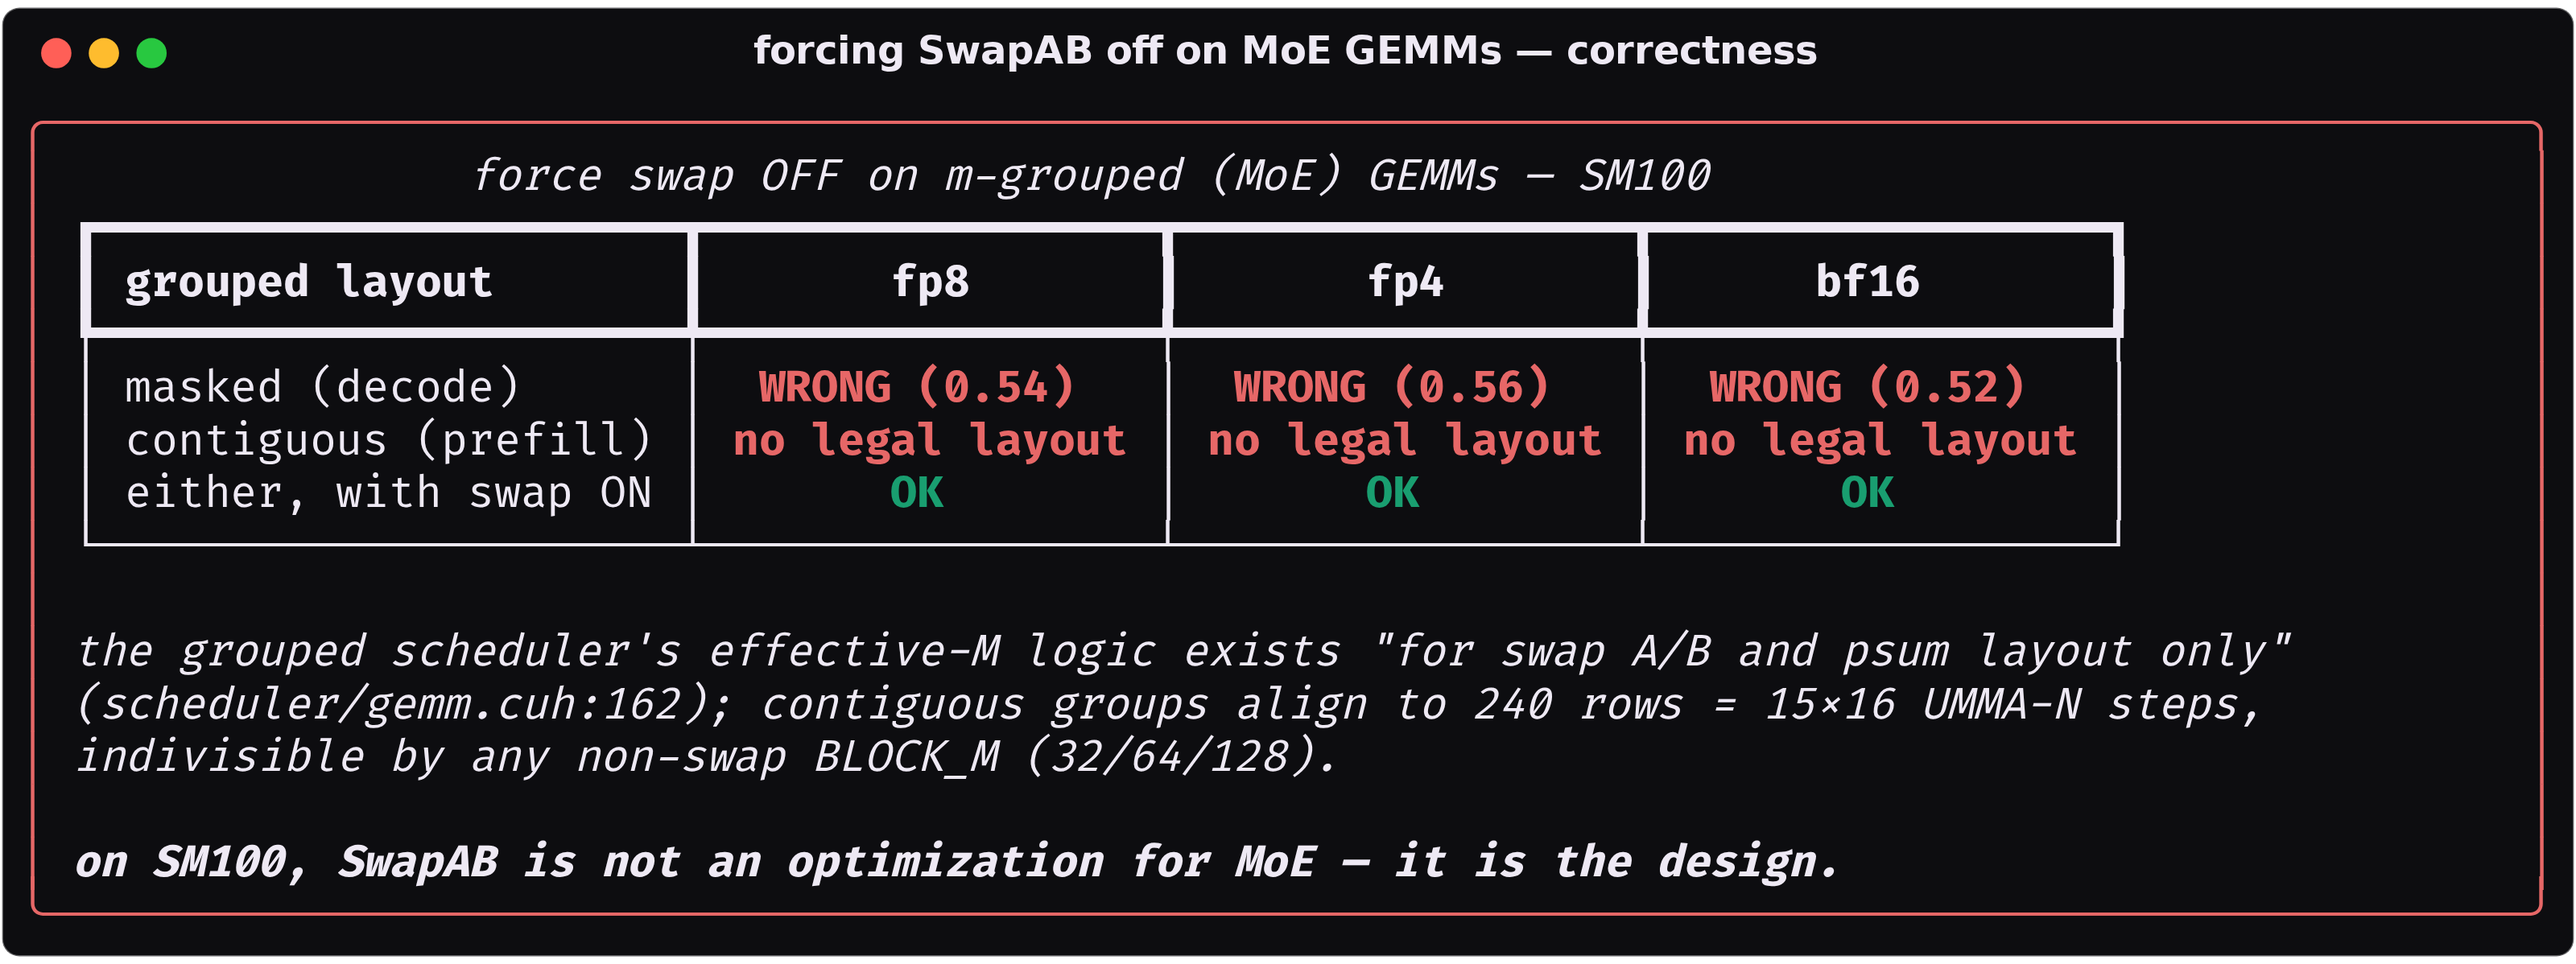
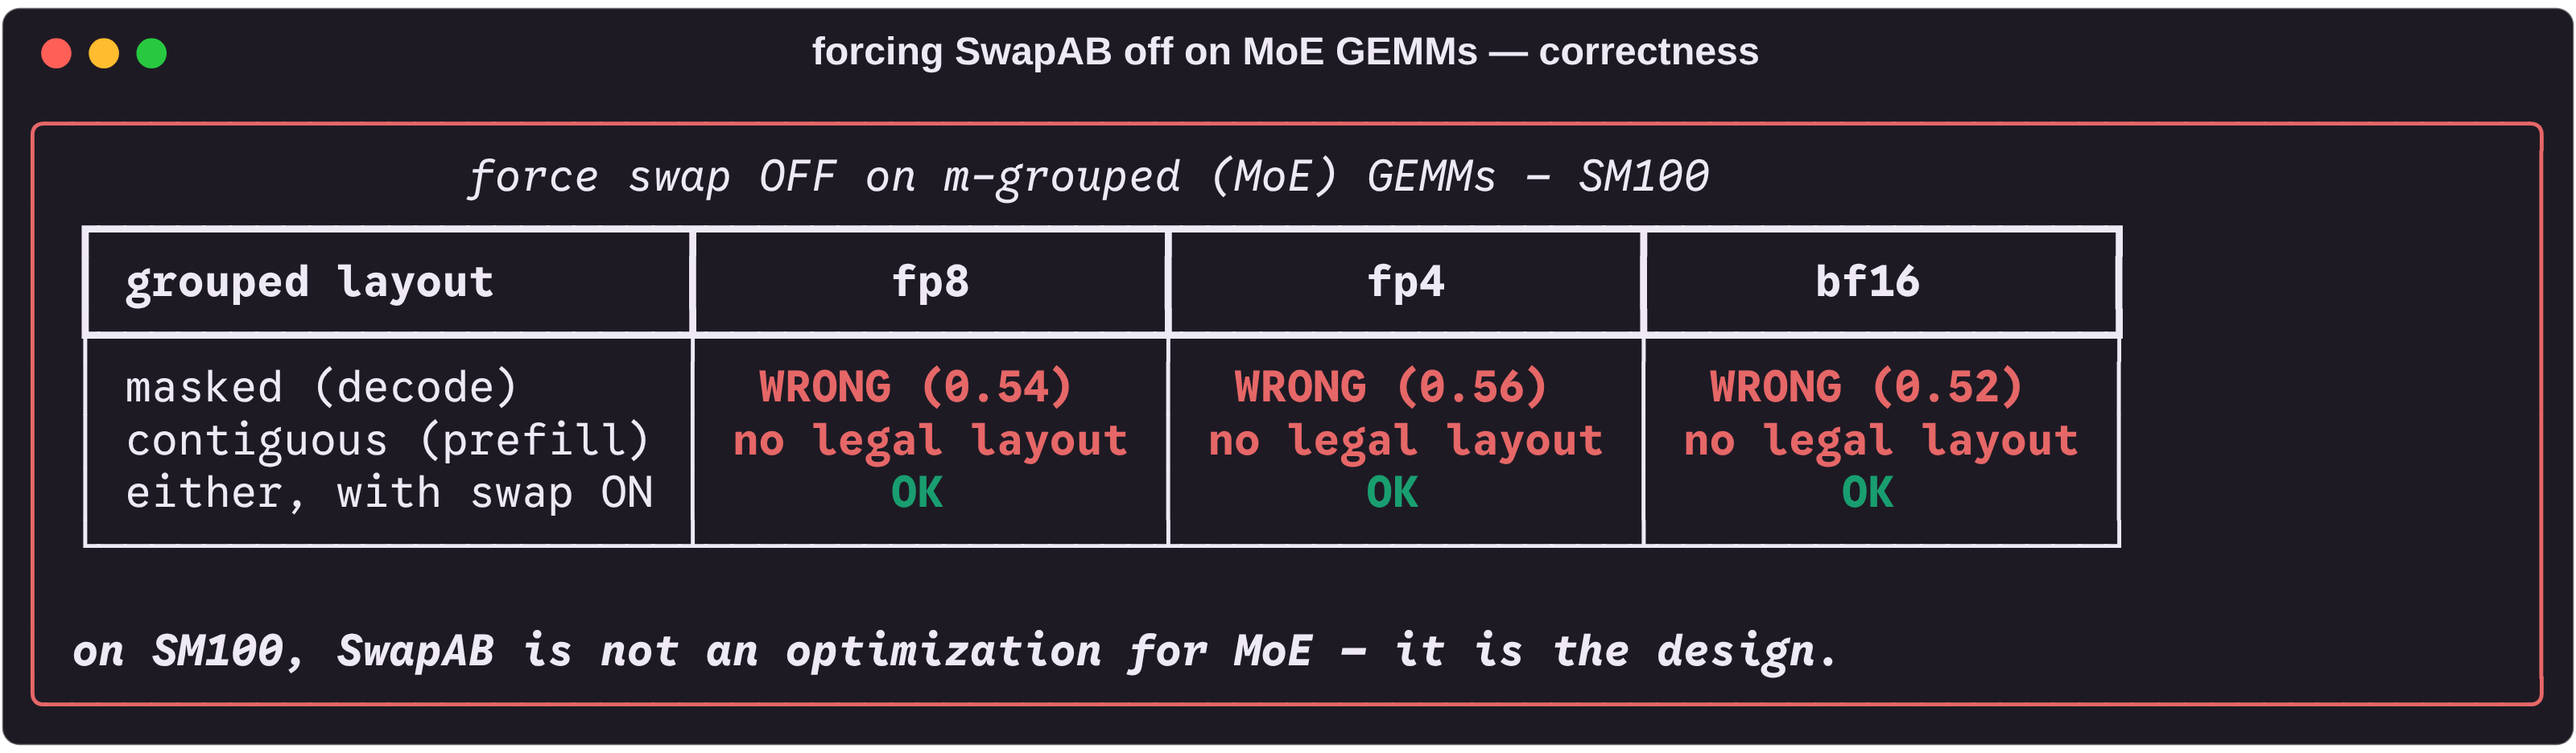
Figures: absolute-microsecond bar charts, original skill style, less text
- Vega charts are grouped bars in absolute us (hero-vs-context colorway):
  dense gate+up swap on/off by batch size; MoE prefill multicast on/off
- Restore thread_visuals' original card style exactly (#1e1a24 surface,
  #332d3d grid) and move the terminal panels onto that same surface
- Fonts per the original: Google Sans Code for terminal panels (cdnjs
  Fira Code @font-face stripped), Helvetica-metric Liberation Sans for plots
- Declutter panels: table + one closing line, no methodology captions

Claude-Session: https://claude.ai/code/session_016BCxYu86qaXRzJjRyC2gx3

Changed region(s): [[0.0, 0.1239, 1.0, 0.8056], [0.0, 0.8365, 1.0, 1.0], [0.0, 0.0, 1.0, 0.0929]]

diff --git a/scripts/make_visuals.py b/scripts/make_visuals.py
@@ -12,6 +12,7 @@ All numbers are computed live from logs/*.csv — nothing staged.
 """
 
 import csv
+import re
 from pathlib import Path
 from typing import Annotated
 
@@ -22,16 +23,16 @@ from rich.panel import Panel
 from rich.terminal_theme import TerminalTheme
 from rich.text import Text
 
-# Same surface as the vega-lite cards (thread_visuals.PLOT_SURFACE) so every
-# figure in the README sits on one unified near-black card; ANSI slots snap to
-# the same validated colorway.
+# Terminal panels sit on the SAME card surface as the vega-lite plots
+# (thread_visuals.PLOT_SURFACE #1e1a24), with ANSI slots snapped to the
+# skill's validated palette (GOOD/BAD accents, PALETTE hues).
 THEME = TerminalTheme(
-    (13, 13, 16),                                   # background #0d0d10
+    (30, 26, 36),                                   # background #1e1a24
     (238, 233, 244),                                # foreground #eee9f4
-    [(13, 13, 16), (230, 103, 103), (25, 158, 112), (186, 132, 32),
-     (79, 146, 221), (213, 81, 129), (86, 180, 233), (238, 233, 244)],
-    [(70, 66, 80), (230, 103, 103), (25, 158, 112), (186, 132, 32),
-     (79, 146, 221), (213, 81, 129), (86, 180, 233), (255, 255, 255)],
+    [(30, 26, 36), (230, 103, 103), (25, 158, 112), (201, 133, 0),
+     (57, 135, 229), (213, 81, 129), (86, 180, 233), (238, 233, 244)],
+    [(139, 132, 150), (230, 103, 103), (25, 158, 112), (201, 133, 0),
+     (57, 135, 229), (213, 81, 129), (86, 180, 233), (255, 255, 255)],
 )
 
 ROOT = Path(__file__).resolve().parent.parent
@@ -75,6 +76,11 @@ def save(name: str, renderable, width: int, title: str) -> None:
     console.print(renderable)
     path = OUT / f"{name}.svg"
     console.save_svg(str(path), title=title, theme=THEME)
+    svg = path.read_text()
+    # strip the cdnjs Fira Code @font-face blocks, then point the SVG at the
+    # locally-installed mono (the original thread_visuals MONO_FONT)
+    svg = re.sub(r"@font-face \{.*?\}\n", "", svg, flags=re.S)
+    path.write_text(svg.replace("Fira Code", "Google Sans Code"))
     print(f"wrote {path}")
 
 
@@ -84,7 +90,7 @@ def speedup_text(x: float, hot: float = 1.10) -> Text:
 
 
 def visual_headline() -> None:
-    t = Table(title="swap-off time ÷ swap-on time — warm L2 (weights in cache)")
+    t = Table(title="swap-off ÷ swap-on kernel time · warm L2 · DeepSeek-V3.2 (TP8) · B300")
     t.add_column("per-GPU GEMM (TP8)")
     t.add_column("N×K", justify="right", style="dim")
     t.add_column("M=1 fp8", justify="right")
@@ -106,20 +112,7 @@ def visual_headline() -> None:
             speedup_text(ratio(WARM["bf16"], "dense", key, 1)),
             speedup_text(ratio(WARM["fp8"], "dense", key, 64)),
         )
-    body = Group(
-        Text("DeepGEMM SwapAB — DeepSeek-V3.2 decode GEMMs, NVIDIA B300 "
-             "(sm_103)", style="bold"),
-        Text("M = tokens in the batch. Every config CUPTI-timed and "
-             "correctness-checked first.", style="dim"),
-        Text(""),
-        t,
-        Text(""),
-        Text("swap wins while M is small, loses past M≈32 — exactly where "
-             "the heuristic flips.\ncold L2 (decode reality): both variants "
-             "HBM-bound, 0.94-1.05x — swap costs nothing.",
-             style="italic"),
-    )
-    save("swapab-headline", Panel(body, border_style="magenta"), 96,
+    save("swapab-headline", Panel(t, border_style="magenta"), 96,
          "SwapAB speedup — dense decode GEMMs")
 
 
@@ -146,11 +139,6 @@ def visual_moe_mandatory() -> None:
               *[Text("OK", style="bold green") for _ in range(3)])
     body = Group(
         t,
-        Text(""),
-        Text("the grouped scheduler's effective-M logic exists \"for swap A/B "
-             "and psum layout only\"\n(scheduler/gemm.cuh:162); contiguous "
-             "groups align to 240 rows = 15×16 UMMA-N steps,\nindivisible by "
-             "any non-swap BLOCK_M (32/64/128).", style="italic"),
         Text(""),
         Text("on SM100, SwapAB is not an optimization for MoE — it is the "
              "design.", style="bold italic"),

diff --git a/scripts/make_plots.py b/scripts/make_plots.py
@@ -14,15 +14,16 @@ from pathlib import Path
 
 import vl_convert as vlc
 
-from thread_visuals import bar_plot, line_plot
+from thread_visuals import grouped_bar_plot
 
 ROOT = Path(__file__).resolve().parent.parent
 LOGS = ROOT / "logs"
 MEDIA = ROOT / "media"
 
-FONT_DIR = Path.home() / ".local" / "share" / "fonts" / "inter"
-if FONT_DIR.is_dir():
-    vlc.register_font_directory(str(FONT_DIR))
+FONTS = Path.home() / ".local" / "share" / "fonts"
+for sub in ("liberation", "gsc", "inter"):
+    if (FONTS / sub).is_dir():
+        vlc.register_font_directory(str(FONTS / sub))
 
 M_LIST = [1, 4, 8, 16, 64, 128]
 
@@ -36,51 +37,40 @@ def load(name: str) -> dict:
     return rows
 
 
-def ratio(table: dict, kind: str, shape: str, m: int,
-          num: str, den: str) -> float:
-    return table[(kind, shape, m, num)] / table[(kind, shape, m, den)]
-
-
 def sweep() -> None:
-    warm_fp8 = load("fp8-warm.csv")
-    warm_fp4 = load("fp4-warm.csv")
+    warm = load("fp8-warm.csv")
     series = {
-        "MTP eh_proj (fp8)": [
-            ratio(warm_fp8, "dense", "mtp_eh_proj", m, "swap_off", "swap_on")
-            for m in M_LIST],
-        "dense MLP gate+up (fp8)": [
-            ratio(warm_fp8, "dense", "dense_mlp_gate_up", m, "swap_off", "swap_on")
-            for m in M_LIST],
-        "LM head (fp4 weights)": [
-            ratio(warm_fp4, "dense", "lm_head", m, "swap_off", "swap_on")
-            for m in M_LIST],
+        "swap on": [warm[("dense", "dense_mlp_gate_up", m, "swap_on")]
+                    for m in M_LIST],
+        "swap off": [warm[("dense", "dense_mlp_gate_up", m, "swap_off")]
+                     for m in M_LIST],
     }
-    line_plot(
-        M_LIST, series, MEDIA / "swapab-sweep.png",
+    grouped_bar_plot(
+        [str(m) for m in M_LIST], series, MEDIA / "swapab-sweep.png",
+        unit="kernel time, microseconds (lower is better) · "
+             "dense MLP gate+up 4608×7168 · fp8 · warm L2 · NVIDIA B300",
+        title="Dense GEMM kernel time by batch size — swap on vs. off",
         xlabel="tokens in the batch (decode batch size per GPU)",
-        unit="swap-off kernel time ÷ swap-on kernel time · warm L2 · "
-             "per-GPU shapes at TP8 · NVIDIA B300",
-        title="SwapAB speedup vs. batch size — DeepSeek-V3.2 dense GEMMs",
-        zero=False, x_log2=True, x_ticks=M_LIST, y_format=".2f",
-        hline=1.0, hline_label="same speed",
+        label_format=".1f", mute_second=True,
     )
     print("wrote media/swapab-sweep.png")
 
 
 def multicast() -> None:
     cold = {d: load(f"{d}.csv") for d in ("fp8", "fp4", "bf16")}
-    items = []
+    groups, on, off = [], [], []
     for label, key in (("gate+up", "moe_gate_up"), ("down", "moe_down")):
         for d in ("fp8", "fp4", "bf16"):
-            gain = (ratio(cold[d], "contiguous", key, 512,
-                          "swap_nomc", "swap_mc") - 1.0) * 100
-            items.append((f"{label} · {d}", round(gain)))
-    bar_plot(
-        items, MEDIA / "moe-multicast.png",
-        unit="percent faster than no multicast · m-grouped contiguous · "
-             "32 experts/GPU · 512 tokens/expert · NVIDIA B300",
-        title="TMA multicast speedup — MoE prefill expert GEMMs",
-        text_format=".0f",
+            groups.append(f"{label} · {d}")
+            on.append(cold[d][("contiguous", key, 512, "swap_mc")])
+            off.append(cold[d][("contiguous", key, 512, "swap_nomc")])
+    grouped_bar_plot(
+        groups, {"multicast on": on, "multicast off": off},
+        MEDIA / "moe-multicast.png",
+        unit="kernel time, microseconds (lower is better) · m-grouped "
+             "contiguous · 32 experts/GPU · 512 tokens/expert · NVIDIA B300",
+        title="MoE prefill expert GEMM time — with vs. without TMA multicast",
+        label_format=".0f", mute_second=True, width=860,
     )
     print("wrote media/moe-multicast.png")
 

diff --git a/scripts/thread_visuals.py b/scripts/thread_visuals.py
@@ -217,15 +217,15 @@ LABEL_EXPR = (
     "datum.value >= 1000 ? format(datum.value / 1000, '.3~r') + 'k' "
     ": format(datum.value, ',.0f')"
 )
-PLOT_SURFACE = "#0d0d10"  # unified near-black card (same as terminal panels)
+PLOT_SURFACE = "#1e1a24"  # purple-tinted near-black card
 PLOT_SERIES = ["#9174e8", "#ba8420", "#249f85", "#4f92dd"]  # validated 4-slot
 PLOT_HERO = "#a78bfa"  # brighter emphasis purple (lone-accent use only)
 PLOT_MUTED_SERIES = "#8b8496"  # gray-lavender context line (mute_rest mode)
 PLOT_INK = "#eee9f4"
 PLOT_INK_MUTED = "#a89fb8"
 PLOT_TAN = "#d8c5a3"  # light tan — unit/subtitle accent
-PLOT_GRID = "#26262e"
-PLOT_FONT = "Inter"
+PLOT_GRID = "#332d3d"
+PLOT_FONT = "Liberation Sans"  # Helvetica-metric stand-in for the original's Helvetica Neue
 
 
 def _plot_config(width: int, height: int) -> dict:
@@ -380,6 +380,54 @@ def line_plot(
                 "scale": {"domain": names, "range": colors},
                 "sort": None,
             },
+        },
+    }
+    return _render_vl(spec, out_png)
+
+
+def grouped_bar_plot(
+    groups: list[str],
+    series: dict[str, list[float]],
+    out_png: Path,
+    unit: str,
+    title: str,
+    xlabel: str = "",
+    label_format: str = ".1f",
+    mute_second: bool = False,
+    width: int = 760,
+) -> Path:
+    """Blog-card grouped vertical bars, direct value label on every bar.
+
+    `mute_second=True` (exactly 2 series) renders series 0 as the hero purple
+    and series 1 as the gray-lavender context — the hero-vs-context pattern.
+    """
+    names = list(series)
+    colors = [PLOT_HERO, PLOT_MUTED_SERIES] if mute_second and len(names) == 2 \
+        else PLOT_SERIES[: len(names)]
+    values = [{"group": g, "series": name, "value": series[name][i]}
+              for name in names for i, g in enumerate(groups)]
+    spec = _plot_config(width, 380) | {
+        "$schema": "https://vega.github.io/schema/vega-lite/v5.json",
+        "title": {"text": title, "subtitle": unit},
+        "data": {"values": values},
+        "layer": [
+            {"mark": {"type": "bar", "cornerRadiusEnd": 3}},
+            {"mark": {"type": "text", "align": "center", "dy": -10,
+                      "color": PLOT_INK, "fontSize": 12, "fontWeight": 700},
+             "encoding": {"text": {"field": "value", "format": label_format}}},
+        ],
+        "encoding": {
+            "x": {"field": "group", "type": "nominal", "sort": None,
+                  "title": xlabel or None,
+                  "axis": {"grid": False, "labelAngle": 0,
+                           "labelFontSize": 14}},
+            "xOffset": {"field": "series", "sort": None},
+            "y": {"field": "value", "type": "quantitative", "title": None,
+                  "axis": {"tickCount": 6, "labelExpr": LABEL_EXPR},
+                  "scale": {"zero": True}},
+            "color": {"field": "series", "type": "nominal",
+                      "scale": {"domain": names, "range": colors},
+                      "sort": None},
         },
     }
     return _render_vl(spec, out_png)

diff --git a/README.md b/README.md
@@ -15,7 +15,7 @@
 > (full raw captures in [`logs/`](logs/)).
 
 <p align="center"><img src="media/swapab-headline.png" width="92%" alt="terminal-style results table: swap-off over swap-on kernel time at M=1 for five DeepSeek-V3.2 GEMM shapes in fp8, fp4 and bf16, and at M=64 where the ratio drops below 1"></p>
-<p align="center"><img src="media/swapab-sweep.png" width="88%" alt="line chart: how much faster the swapped kernel is versus decode batch size for three shapes; well above 1 for batches of 1-16, crossing the same-speed line around batch 32-64"></p>
+<p align="center"><img src="media/swapab-sweep.png" width="88%" alt="grouped bar chart of absolute kernel time in microseconds by batch size: the swapped kernel holds a flat 8.1 microseconds from 1 to 16 tokens while the plain kernel takes 8.5-10.5; past 64 tokens the plain kernel pulls ahead"></p>
 
 SwapAB — computing **Bᵀ·Aᵀ = Cᵀ** instead of **A·B = C** — looks mathematically
 trivial. On paper `(AB)ᵀ = BᵀAᵀ` is a one-line identity; on an ideal GPU where
@@ -76,7 +76,7 @@ m-grouped contiguous, 32 experts per GPU, no-multicast ÷ multicast:
 | 512 | **1.23x** | **1.24x** | **1.20x** | 1.18x | 1.19x | 1.13x |
 | 1-32 (masked, decode) | ~1.00x | ~1.00x | ~1.00x | ~1.00x | ~1.00x | ~1.00x |
 
-<p align="center"><img src="media/moe-multicast.png" width="80%" alt="bar chart: percent faster with TMA multicast on MoE prefill — 23-24 percent for gate+up in fp8 and fp4, 20 percent bf16; 13-19 percent for the down projection"></p>
+<p align="center"><img src="media/moe-multicast.png" width="85%" alt="grouped bar chart of absolute kernel time in microseconds: with multicast the MoE prefill gate+up runs 387 (fp8), 359 (fp4) and 761 (bf16) microseconds versus 477, 446 and 912 without; the down projection 193-375 versus 229-424"></p>
 
 Bonus observation from the same runs: on the weight-bound decode MoE shapes,
 FP4 weights beat FP8 by the bandwidth you'd hope for — 160.5 µs → 96.0 µs
